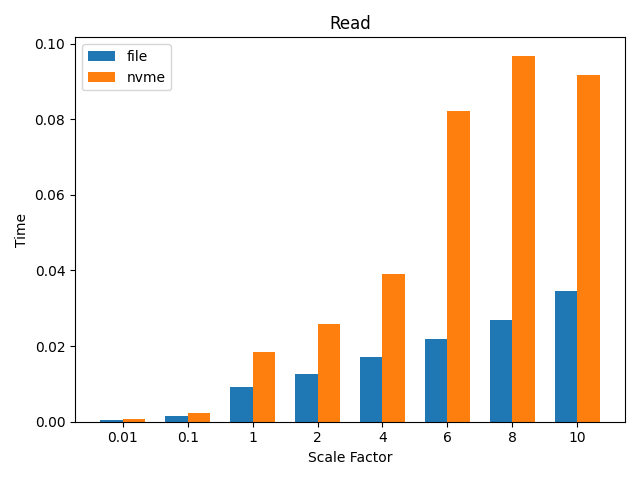
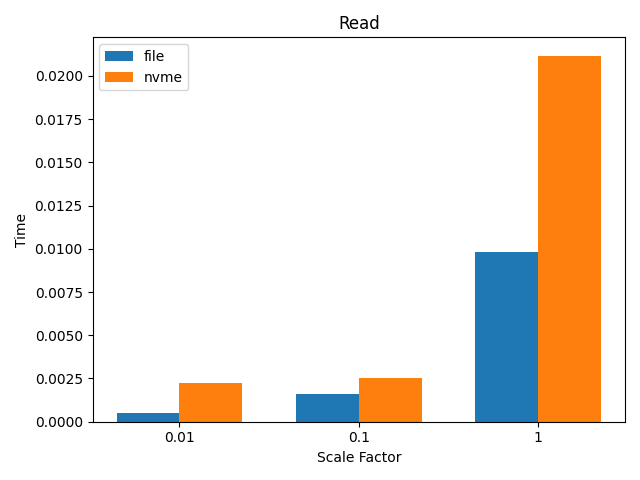
Branch out from nvme_fullblock, but here using mdts blocks to read/write.

diff --git a/src/common/file_buffer.cpp b/src/common/file_buffer.cpp
@@ -127,18 +127,27 @@ void FileBuffer::Read(xnvme_dev *dev, uint64_t location, QueuePool &qpool) {
 	auto geo = xnvme_dev_get_geo(dev);
 	auto lba_size = geo->nbytes;
 	auto lba_location = location / lba_size;
-	auto lbas_to_write = (internal_size / lba_size) - 1;
 
-	qwrap = qpool.SubmitRead(dev, lba_location, (uint16_t)lbas_to_write, internal_buffer);
-	if (err) {
-		goto exit;
-	}
+	auto mdts_size = geo->mdts_nbytes;
+	auto lbas_pr_mdts = mdts_size / lba_size;
+	uint64_t submissions = 1 + ((internal_size - 1) / mdts_size);
 
-	// all is submitted
-	// ret = qwrap->Drain();
-	if (ret < 0) {
-		xnvme_cli_perr("xnvme_queue_drain()", ret);
-		goto exit;
+	for (uint64_t i = 0; i < submissions; i++) {
+		auto offset = i * mdts_size;
+		auto *payload = internal_buffer + offset;
+		auto lbas = internal_size - offset >= mdts_size ? lbas_pr_mdts : (internal_size - offset) / lba_size;
+
+		qwrap = qpool.SubmitRead(dev, lba_location + i * lbas_pr_mdts, (uint16_t)lbas - 1, payload);
+		if (err) {
+			goto exit;
+		}
+
+		// all is submitted
+		// ret = qwrap->Drain();
+		if (ret < 0) {
+			xnvme_cli_perr("xnvme_queue_drain()", ret);
+			goto exit;
+		}
 	}
 
 exit:
@@ -162,17 +171,25 @@ void FileBuffer::Write(xnvme_dev *dev, uint64_t location, QueuePool &qpool) {
 	auto geo = xnvme_dev_get_geo(dev);
 	auto lba_size = geo->nbytes;
 	auto lba_location = location / lba_size;
-	auto lbas_to_write = (internal_size / lba_size) - 1;
+	auto mdts_size = geo->mdts_nbytes;
+	auto lbas_pr_mdts = mdts_size / lba_size;
+	uint64_t submissions = 1 + ((internal_size - 1) / mdts_size);
 
-	qwrap = qpool.SubmitWrite(dev, lba_location, (uint16_t)lbas_to_write, internal_buffer);
-	if (err) {
-		goto exit;
-	}
+	for (uint64_t i = 0; i < submissions; i++) {
+		auto offset = i * mdts_size;
+		auto *payload = internal_buffer + offset;
+		auto lbas = internal_size - offset >= mdts_size ? lbas_pr_mdts : (internal_size - offset) / lba_size;
 
-	// ret = qwrap->Drain();
-	if (ret < 0) {
-		xnvme_cli_perr("xnvme_queue_drain()", ret);
-		goto exit;
+		qwrap = qpool.SubmitWrite(dev, lba_location + i * lbas_pr_mdts, (uint16_t)lbas - 1, payload);
+		if (err) {
+			goto exit;
+		}
+
+		// ret = qwrap->Drain();
+		if (ret < 0) {
+			xnvme_cli_perr("xnvme_queue_drain()", ret);
+			goto exit;
+		}
 	}
 
 exit:

diff --git a/thesis_testing/test.py b/thesis_testing/test.py
@@ -17,8 +17,8 @@ file_db = cur_dir / "test.db"
 nvme_db = "/dev/nvme1n1"
 
 # test meta information
-test_amount = 5
-test_scales = [0.01, 0.1, 1, 2, 4, 6, 8, 10]
+test_amount = 3
+test_scales = [0.01, 0.1, 1]
 
 # these are the builds of DuckDB we need for testing
 duckdb_file = cur_dir / "builds/duckdb_file"
